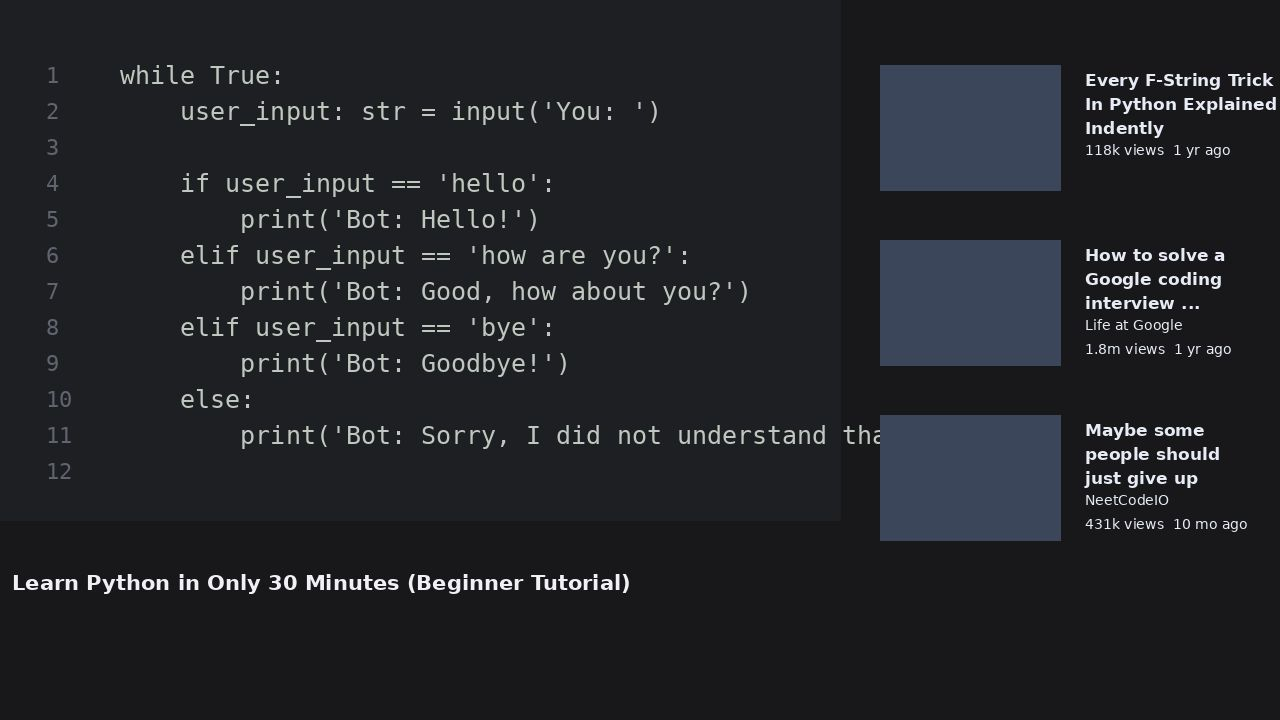
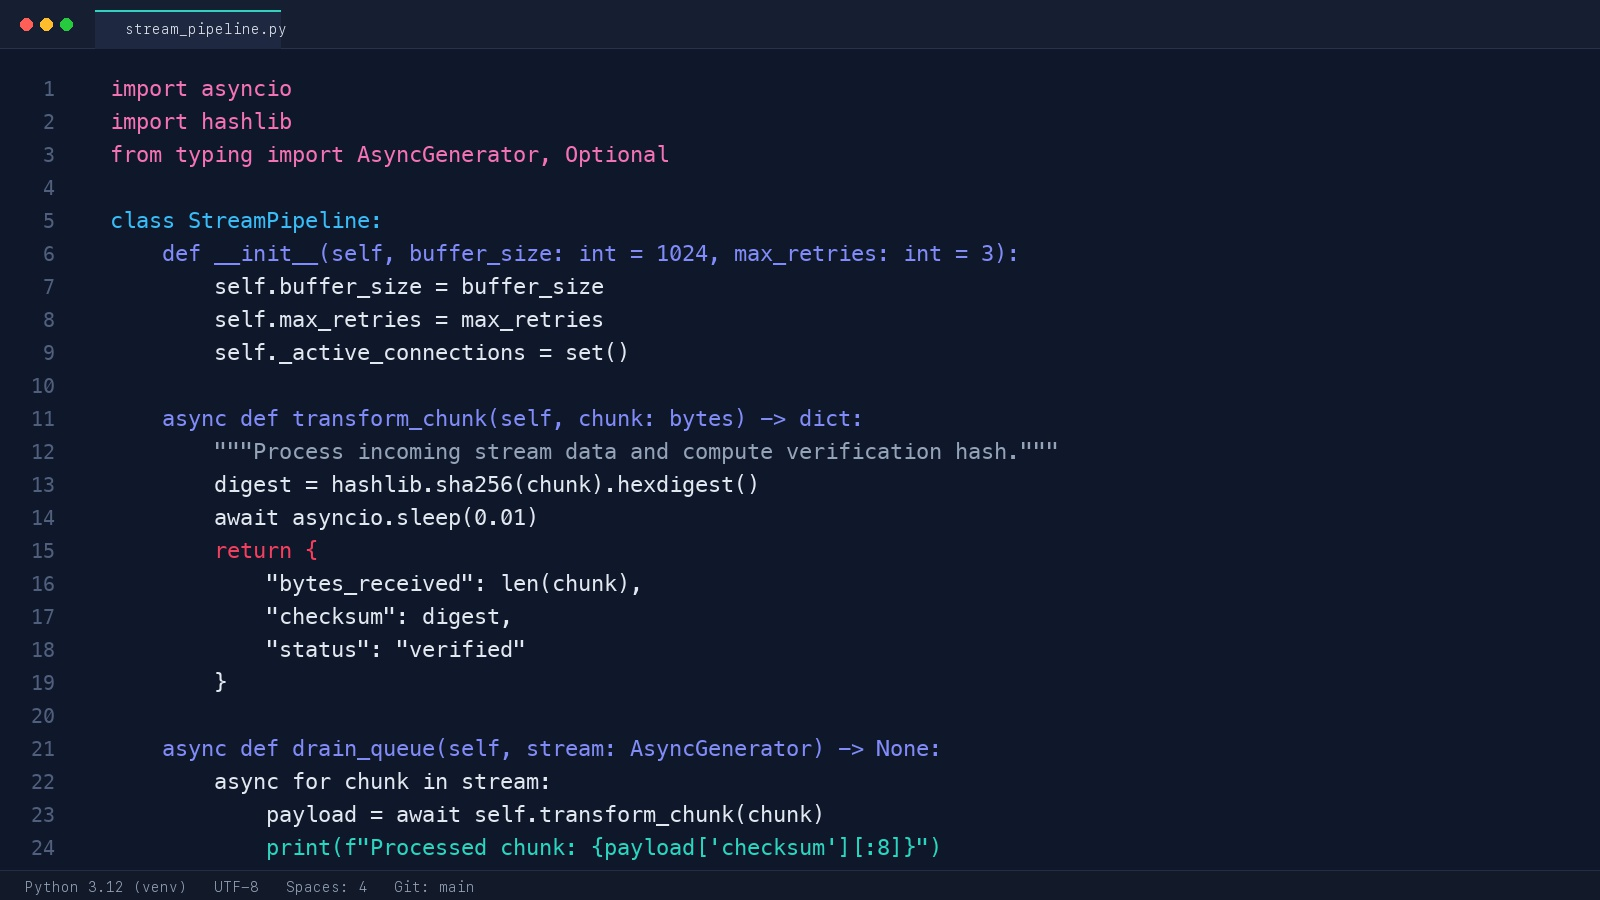
feat(viewer): implement unified single copy code button and demo assets

diff --git a/web/src/components/FrameView.tsx b/web/src/components/FrameView.tsx
@@ -24,7 +24,17 @@ function fillContent(node: HTMLElement, text: string) {
   if (last < text.length) node.append(document.createTextNode(text.slice(last)));
 }
 
-export default function FrameView({ frame, onToast, children }: { frame: Frame; onToast: (m: string) => void; children?: React.ReactNode }) {
+export default function FrameView({
+  frame,
+  onToast,
+  searchQuery = "",
+  children,
+}: {
+  frame: Frame;
+  onToast: (m: string) => void;
+  searchQuery?: string;
+  children?: React.ReactNode;
+}) {
   const wrap = useRef<HTMLDivElement>(null);
   const layer = useRef<HTMLDivElement>(null);
   const toastRef = useRef(onToast);
@@ -42,40 +52,62 @@ export default function FrameView({ frame, onToast, children }: { frame: Frame; 
     const frag = document.createDocumentFragment();
     const spans: [HTMLElement, number][] = [];
     const blocks = buildBlocks(frame);
-    for (const b of blocks) for (const l of b.lines) {
-      const s = document.createElement("span") as HTMLElement & { _line?: PxLine; _block?: typeof b };
-      s.className = "ln" + (b.gutter ? " gutter" : "");
-      fillContent(s, " ".repeat(l.ind) + l.t);
-      const indPx = l.ind * b.charW, hgt = (l.y1 - l.y0) * sy;
-      s.style.left = (l.x0 - indPx) * sx + "px";
-      s.style.top = l.y0 * sy + "px";
-      s.style.fontSize = Math.max(6, hgt * 0.82) + "px";
-      s.style.height = hgt + "px";
-      s._line = l; s._block = b;
-      frag.append(s);
-      spans.push([s, (l.x1 - l.x0 + indPx) * sx]);
+    const query = searchQuery.trim().toLowerCase();
+
+    for (const b of blocks) {
+      const blockEl = document.createElement("div");
+      blockEl.className = "blk" + (b.code ? " blk-code" : "") + (b.gutter ? " blk-gutter" : "");
+      for (const l of b.lines) {
+        const s = document.createElement("span") as HTMLElement & { _line?: PxLine; _block?: typeof b };
+        const isMatch = query.length > 0 && l.t.toLowerCase().includes(query);
+        s.className = "ln" + (b.gutter ? " gutter" : "") + (isMatch ? " ln-match" : "");
+        fillContent(s, " ".repeat(l.ind) + l.t);
+        const indPx = l.ind * b.charW, hgt = (l.y1 - l.y0) * sy;
+        s.style.left = (l.x0 - indPx) * sx + "px";
+        s.style.top = l.y0 * sy + "px";
+        s.style.fontSize = Math.max(6, hgt * 0.82) + "px";
+        s.style.height = hgt + "px";
+        s._line = l; s._block = b;
+        blockEl.append(s);
+        spans.push([s, (l.x1 - l.x0 + indPx) * sx]);
+      }
+      frag.append(blockEl);
+    }
+
+    // Exactly 1 unified "Copy code" button for the complete code on screen
+    const codeBlocks = blocks.filter((b) => b.code && !b.gutter);
+    if (codeBlocks.length > 0) {
+      const allLines = codeBlocks.flatMap((b) => b.lines);
+      const minX0 = Math.min(...codeBlocks.map((b) => b.x0));
+      const minY0 = Math.min(...codeBlocks.map((b) => b.y0));
+
+      const btn = document.createElement("button");
+      btn.className = "copyblk";
+      btn.type = "button";
+      btn.innerHTML = `<svg width="13" height="13" viewBox="0 0 24 24" fill="none" stroke="currentColor" stroke-width="2.2" stroke-linecap="round" stroke-linejoin="round" style="margin-right:5px;vertical-align:-1px;"><rect width="14" height="14" x="8" y="8" rx="2" ry="2"/><path d="M4 16c-1.1 0-2-.9-2-2V4c0-1.1.9-2 2-2h10c1.1 0 2 .9 2 2"/></svg><span>Copy code</span>`;
+      btn.title = `Copy complete code (${allLines.length} lines, indented)`;
+      btn.style.top = Math.max(6, minY0 * sy - 34) + "px";
+      btn.style.left = Math.max(6, minX0 * sx) + "px";
+      btn.addEventListener("click", async (e) => {
+        e.stopPropagation();
+        try {
+          const completeText = codeBlocks.map((b) => blockText(b)).join("\n\n");
+          await navigator.clipboard.writeText(completeText);
+          toastRef.current(`Copied complete code (${allLines.length} lines)`);
+        } catch {
+          toastRef.current("Clipboard blocked — select the text instead");
+        }
+      });
+      frag.append(btn);
     }
     el.append(frag);
     for (const [s, target] of spans) {
       const natural = s.scrollWidth || s.getBoundingClientRect().width;
       if (natural > 0 && target > 0) s.style.transform = `scaleX(${(target / natural).toFixed(4)})`;
     }
-    for (const b of blocks) if (b.code) {
-      const btn = document.createElement("button");
-      btn.className = "copyblk"; btn.type = "button"; btn.textContent = "Copy code";
-      btn.title = `Copy these ${b.lines.length} lines, with indentation`;
-      btn.style.top = Math.max(2, b.y0 * sy - 30) + "px";
-      btn.style.left = Math.max(2, b.x0 * sx) + "px";
-      btn.addEventListener("click", async (e) => {
-        e.stopPropagation();
-        try { await navigator.clipboard.writeText(blockText(b)); toastRef.current(`Copied ${b.lines.length} lines`); }
-        catch { toastRef.current("Clipboard blocked — select the text instead"); }
-      });
-      el.append(btn);
-    }
   };
 
-  useLayoutEffect(() => { layout(); }, [frame]); // eslint-disable-line react-hooks/exhaustive-deps
+  useLayoutEffect(() => { layout(); }, [frame, searchQuery]); // eslint-disable-line react-hooks/exhaustive-deps
   useEffect(() => {
     const ro = new ResizeObserver(() => layout());
     if (wrap.current) ro.observe(wrap.current);
